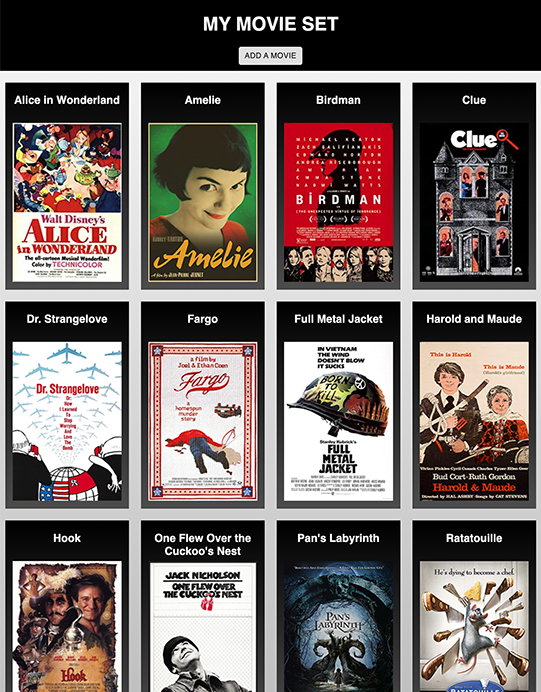
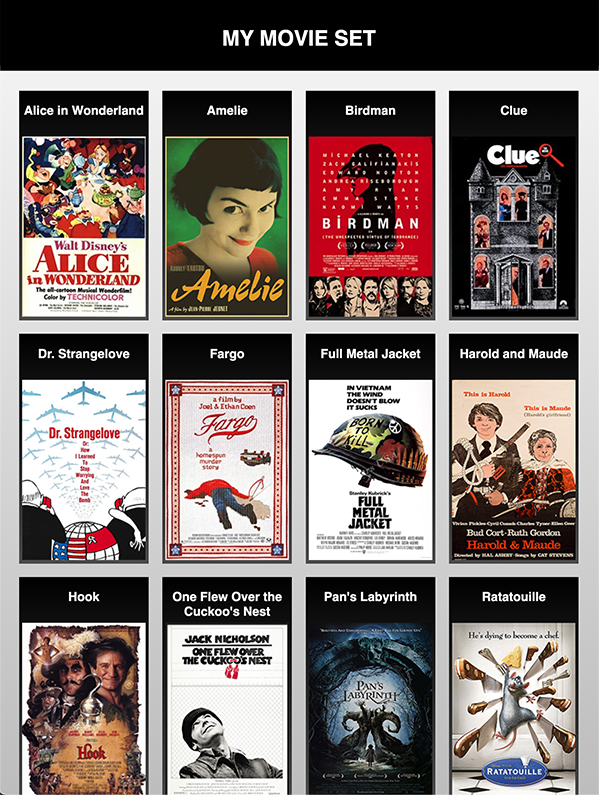
Updated CSS spacing/sizing of project images and desc text.

diff --git a/src/components/Projects/Projects.jsx b/src/components/Projects/Projects.jsx
@@ -57,18 +57,6 @@ function Projects() {
   return (
     <ThemeProvider theme={theme}>
 
-      {/* <div className="projectsHeaderBox">
-        <Typography className="projectsHeaderText" variant="h5" sx={{fontSize: 18, width: "170px", borderLeft: "5px solid #6f2c3f", borderRight: "5px solid #8f454c"}} gutterBottom>
-          PROJECTS
-        </Typography>
-      </div> */}
-{/* 
-      <div className="projectsHeaderBox">
-        <Typography className="projectsHeaderText" variant="h4" fontWeight="bold" sx={{fontSize: 28, width: "150px", borderLeft: "5px solid #6f2c3f", borderRight: "5px solid #8f454c"}} gutterBottom>
-          Projects
-        </Typography>
-      </div> */}
-
       <div className="projectsHeaderBox">
         <Typography className="projectsHeaderText" variant="h4" fontWeight="bold" sx={{fontSize: 18}} gutterBottom>
           PROJECTS
@@ -79,7 +67,7 @@ function Projects() {
         <div className="projectsInnerContainer">
 
         {/* THE RUNDOWN */}
-        <div className="projectsBorderContainer">
+        <div className="projectContainer">
             <div className="projectHeaderBox">
               <Typography className="projectHeaderText" variant="h5" mt={0} mb={0} fontWeight="bold" gutterBottom>
                 The Rundown
@@ -90,9 +78,9 @@ function Projects() {
             </div>
             <div className="projectBody">
               <div className="projectImages">
-                <img className="appImage" src={rundownHome}></img>
-                <img className="appImage" src={rundownDetails}></img>
-                <img className="appImage" src={rundownEdit}></img>
+                <img className="appImageRundown" src={rundownHome}></img>
+                <img className="appImageRundown" src={rundownDetails}></img>
+                <img className="appImageRundown" src={rundownEdit}></img>
               </div>
               <div className="projDescText">
                 <Typography variant="body1" mt={0} mb={0} gutterBottom>
@@ -113,7 +101,7 @@ function Projects() {
         </div>
 
         {/* IDEAL LIVING WEEK */}
-        <div className="projectsBorderContainer">
+        <div className="projectContainer">
           <div className="projectHeaderBox">
             <Typography className="projectHeaderText" variant="h5" mt={0} mb={0} fontWeight="bold" gutterBottom>
               Ideal Living Week
@@ -124,8 +112,8 @@ function Projects() {
           </div>
           <div className="projectBody">
             <div className="projectImages">
-              <img className="appImage" src={idealQuestions}></img>
-              <img className="appImage" src={idealPriorities}></img>
+              <img className="appImage2" src={idealQuestions}></img>
+              <img className="appImage2" src={idealPriorities}></img>
             </div>
             <div className="projDescText">
                 <Typography variant="body1" mt={0} mb={0} gutterBottom>
@@ -146,7 +134,7 @@ function Projects() {
         </div>
 
         {/* MY MOVIE SET */}
-        <div className="projectsBorderContainer">
+        <div className="projectContainer">
           <div className="projectHeaderBox">
             <Typography className="projectHeaderText" variant="h5" mt={0} mb={0} fontWeight="bold" gutterBottom>
               My Movie Set
@@ -157,8 +145,8 @@ function Projects() {
           </div>
           <div className="projectBody">
             <div className="projectImages">
-              <img className="appImage" src={movieSetList}></img>
-              <img className="appImage" src={movieSetDetails}></img>
+              <img className="appImage2" src={movieSetList}></img>
+              <img className="appImage2" src={movieSetDetails}></img>
             </div>
             <div className="projDescText">
                 <Typography variant="body1" mt={0} mb={0} gutterBottom>
@@ -179,7 +167,7 @@ function Projects() {
         </div>
 
         {/* MY SNAPS GALLERY */}
-        <div className="projectsBorderContainer">
+        <div className="projectContainer">
           <div className="projectHeaderBox">
             <Typography className="projectHeaderText" variant="h5" mt={0} mb={0} fontWeight="bold"  gutterBottom>
               My Snaps Gallery
@@ -190,8 +178,8 @@ function Projects() {
           </div>
           <div className="projectBody">
             <div className="projectImages">
-              <img className="appImage" src={galleryDesc2}></img>
-              <img className="appImage" src={galleryDesc1}></img>
+              <img className="appImage2" src={galleryDesc2}></img>
+              <img className="appImage2" src={galleryDesc1}></img>
             </div>
             <div className="projDescText">
                 <Typography variant="body1" mt={0} mb={0} gutterBottom>

diff --git a/src/components/App/App.css b/src/components/App/App.css
@@ -175,7 +175,7 @@ Home — Skills / Values
 }
 
 /* -----------------------------------------------------------------
-Projects
+Projects Section
 ----------------------------------------------------------------- */
 
 .projectsHeaderBox {
@@ -194,7 +194,7 @@ Projects
   background-color: black;
   display: flex;
   flex-direction: column;
-  justify-content: center;
+  /* justify-content: center; */
 }
 
 .projectsInnerContainer{
@@ -205,7 +205,7 @@ Projects
   flex-direction: row;
   flex-wrap: wrap;
   justify-content: center;
-  align-items: center;
+  /* align-items: center; */
 }
 
 .projectsHeaderText {
@@ -213,15 +213,16 @@ Projects
   height: 40px;
 }
 
-.projectsBorderContainer {
-  /* max-width: 600px; */
-  /* max-width: 100%; */
+/* -----------------------------------------------------------------
+Individual Projects
+----------------------------------------------------------------- */
+
+.projectContainer {
   margin: 10px 20px 25px 20px;
   border-bottom: 12px solid black;
 }
 
 .projectHeaderBox {
-  grid-row-start: 1;
   height: 60px;
   color: black;
   background-color: white;
@@ -230,27 +231,53 @@ Projects
 }
 
 .projectBody {
-  grid-row-start: 2;
   background-color: white;
   /* background: linear-gradient(180deg, #e6e6e6 0%, white 30%, white 70%, #e6e6e6 100%); */
   padding: 5px 10px 15px 10px;
+  max-width: 500px;
+  display: flex;
+  flex-direction: column;
+  justify-content: center;
 }
 
 .projectImages {
   padding: 11px 0px 25px 0px;
   display: flex;
+  flex-direction: row;
   justify-content: space-around;
 }
 
 .projDescText {
-  max-width: 300px;
+  /* max-width: 300px; */
   text-align: justify;
   margin-bottom: 10px;
+  display: flex;
+  justify-content: center;
 }
 
 .appImage {
   min-height: 150px;
   max-height: 17vw;
+  max-width: 100%;
+  /* max-height: 300px; */
+  border: 1px solid gray;
+  box-shadow: 1px 1px 2px;
+  margin: 0px 10px 0px 10px;
+}
+
+.appImageRundown {
+  min-height: 150px;
+  max-height: 17vw;
+  max-width: 130px;
+  border: 1px solid gray;
+  box-shadow: 1px 1px 2px;
+  margin: 0px 10px 0px 10px;
+}
+
+.appImage2 {
+  min-height: 150px;
+  max-height: 17vw;
+  max-width: 220px;
   border: 1px solid gray;
   box-shadow: 1px 1px 2px;
   margin: 0px 10px 0px 10px;
